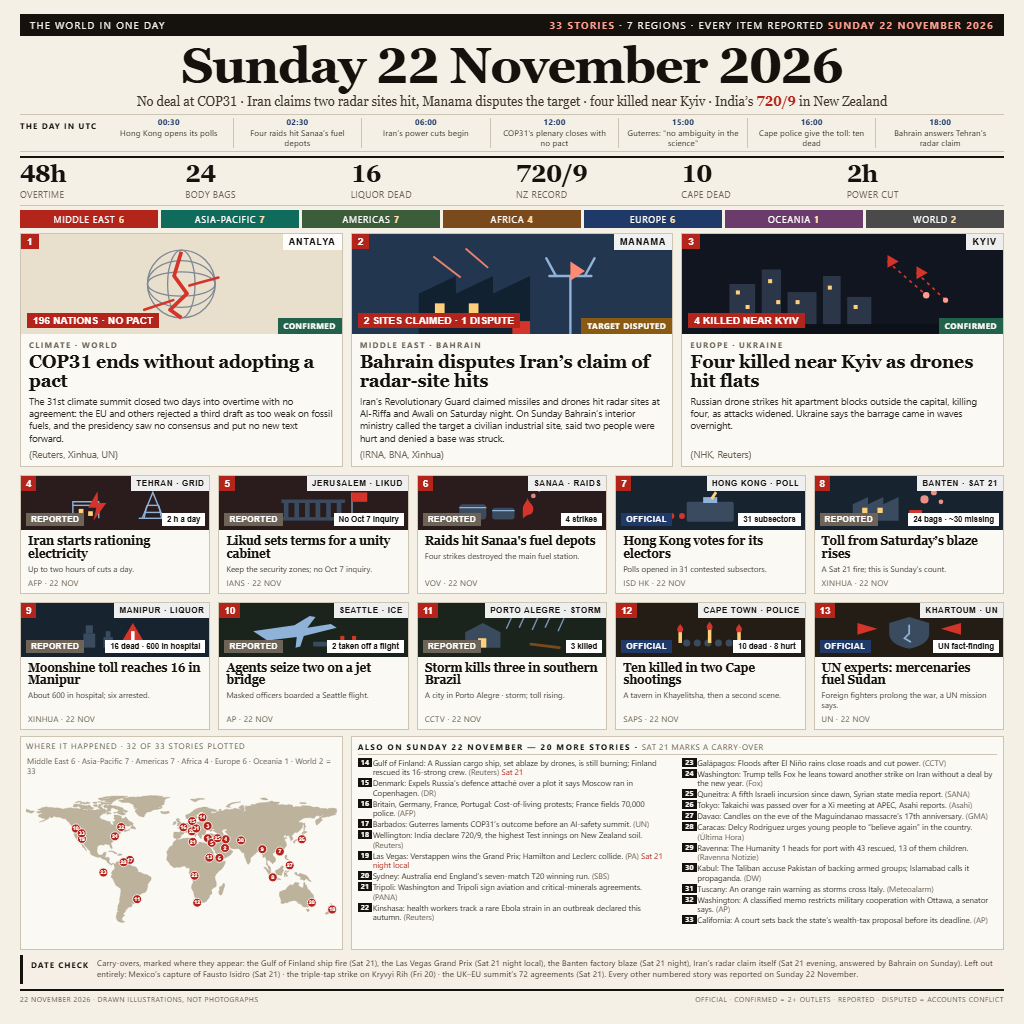
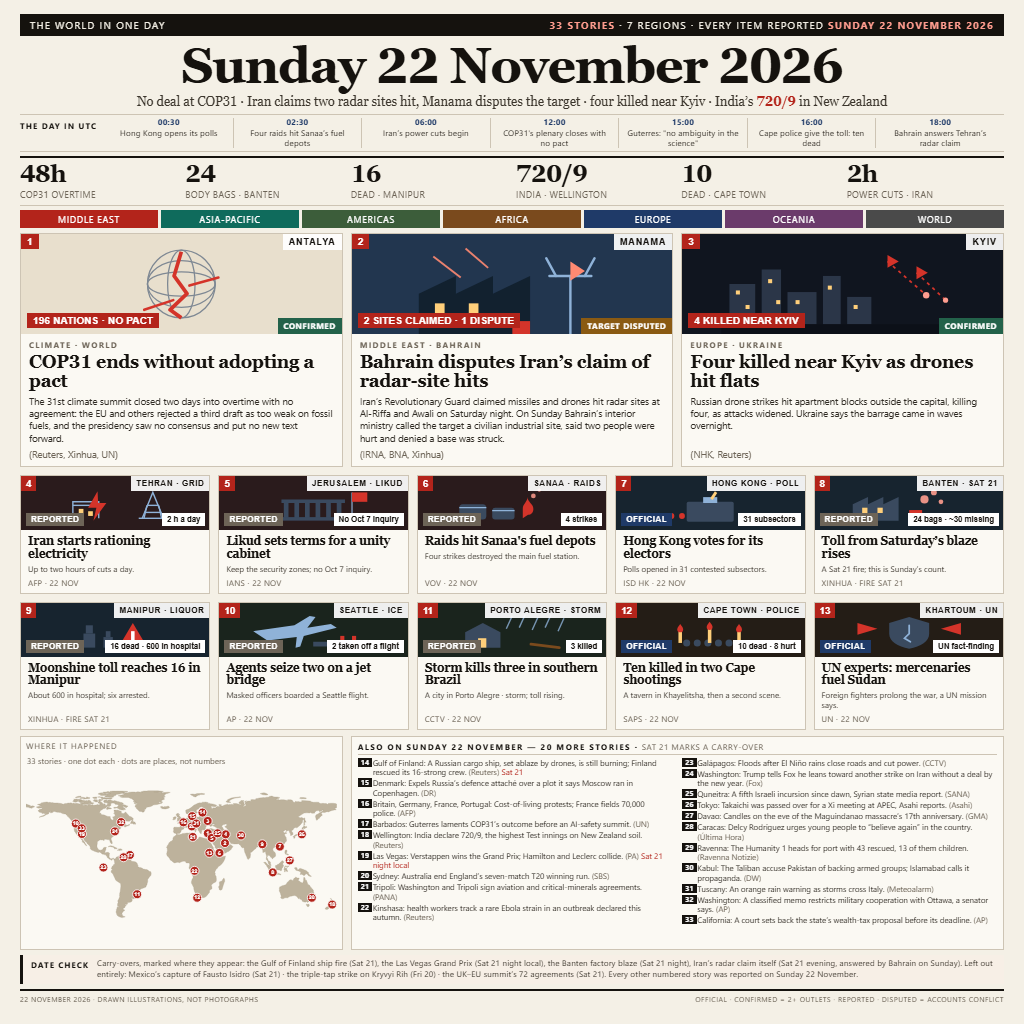
v11: stop claiming counts the map cannot match; KPI labels name their place; map dots are dots

diff --git a/image/frontpage.html b/image/frontpage.html
@@ -147,22 +147,22 @@
   </div>
 
   <div class="stats">
-    <div class="stat"><b>48h</b><span>overtime</span></div>
-    <div class="stat"><b>24</b><span>body bags</span></div>
-    <div class="stat"><b>16</b><span>liquor dead</span></div>
-    <div class="stat"><b>720/9</b><span>NZ record</span></div>
-    <div class="stat"><b>10</b><span>Cape dead</span></div>
-    <div class="stat"><b>2h</b><span>power cut</span></div>
+    <div class="stat"><b>48h</b><span>COP31 overtime</span></div>
+    <div class="stat"><b>24</b><span>body bags · Banten</span></div>
+    <div class="stat"><b>16</b><span>dead · Manipur</span></div>
+    <div class="stat"><b>720/9</b><span>India · Wellington</span></div>
+    <div class="stat"><b>10</b><span>dead · Cape Town</span></div>
+    <div class="stat"><b>2h</b><span>power cuts · Iran</span></div>
   </div>
 
   <div class="regions">
-    <div class="r-me">Middle East <span>6</span></div>
-    <div class="r-ap">Asia-Pacific <span>7</span></div>
-    <div class="r-am">Americas <span>7</span></div>
-    <div class="r-af">Africa <span>4</span></div>
-    <div class="r-eu">Europe <span>6</span></div>
-    <div class="r-oc">Oceania <span>1</span></div>
-    <div class="r-wo">World <span>2</span></div>
+    <div class="r-me">Middle East</div>
+    <div class="r-ap">Asia-Pacific</div>
+    <div class="r-am">Americas</div>
+    <div class="r-af">Africa</div>
+    <div class="r-eu">Europe</div>
+    <div class="r-oc">Oceania</div>
+    <div class="r-wo">World</div>
   </div>
 
   <div class="heroes">
@@ -276,14 +276,14 @@
         <span class="n">8</span><span class="rg">Banten · Sat 21</span><span class="st reported">Reported</span><span class="fp">24 bags · ~30 missing</span></div>
       <h3>Toll from Saturday’s blaze rises</h3>
       <p class="line">A Sat 21 fire; this is Sunday’s count.</p>
-      <div class="src">Xinhua · 22 Nov</div>
+      <div class="src">Xinhua · fire Sat 21</div>
     </div>
     <div class="tile ap">
       <div class="scene" style="background:#17242f"><svg viewBox="0 0 300 64" preserveAspectRatio="xMidYMid meet"><g fill="#3a4a5f"><path d="M96 62 V38 h20 v24z"/><rect x="100" y="24" width="12" height="14"/><path d="M130 62 V44 h16 v18z"/><rect x="134" y="34" width="8" height="10"/></g><g fill="#d4342a"><path d="M180 20 l26 44 h-52z"/></g><rect x="177" y="34" width="6" height="16" fill="#fff"/><rect x="177" y="54" width="6" height="6" fill="#fff"/></svg>
         <span class="n">9</span><span class="rg">Manipur · liquor</span><span class="st reported">Reported</span><span class="fp">16 dead · 600 in hospital</span></div>
       <h3>Moonshine toll reaches 16 in Manipur</h3>
       <p class="line">About 600 in hospital; six arrested.</p>
-      <div class="src">Xinhua · 22 Nov</div>
+      <div class="src">Xinhua · fire Sat 21</div>
     </div>
     <div class="tile am">
       <div class="scene" style="background:#1a241d"><svg viewBox="0 0 300 64" preserveAspectRatio="xMidYMid meet"><path d="M48 34 l70 -10 l26 -16 l10 2 l-14 18 l40 -6 l10 6 l-56 14 l-6 18 l-8 2 l2 -18 l-50 6z" fill="#8fb2d8"/><path d="M150 52 h96 v8 h-96z" fill="#3a4a5f"/><g fill="#d4342a"><rect x="196" y="42" width="7" height="10"/><rect x="216" y="42" width="7" height="10"/></g></svg>
@@ -317,8 +317,8 @@
 
   <div class="bottom">
     <div class="mapbox">
-      <div class="h">Where it happened · 32 of 33 stories plotted</div>
-      <div class="legend">Middle East 6 · Asia-Pacific 7 · Americas 7 · Africa 4 · Europe 6 · Oceania 1 · World 2 = 33</div>
+      <div class="h">Where it happened</div>
+      <div class="legend">33 stories · one dot each · dots are places, not numbers</div>
       <svg viewBox="0 0 360 150" preserveAspectRatio="xMidYMid meet">
         <rect width="360" height="150" fill="#fbf9f3"/>
         <path d="M112.3 145.6L113.6 146.2L115.0 146.5L113.6 147.1L112.7 147.1L111.9 147.5L110.8 147.4L109.0 146.9L107.7 146.3L106.7 145.7L105.3 144.5L106.2 144.8L107.6 145.5L108.9 145.9L109.7 144.6L110.7 144.2L111.8 144.8L112.3 145.6ZM325.4 131.8L326.4 132.2L327.7 131.8L328.4 133.2L327.9 134.4L326.9 134.8L326.0 134.7L325.4 133.8L324.7 132.2ZM353.0 132.0L354.0 132.0L354.2 132.9L353.2 134.1L353.1 135.1L351.5 135.5L350.6 137.2L349.8 137.7L348.4 138.0L346.7 137.6L347.0 136.4L348.3 135.3L349.7 134.7L350.5 134.2L351.1 133.6L351.6 132.9L352.1 132.0L352.8 131.5ZM354.6 126.9L355.3 128.0L356.8 128.7L358.0 128.4L358.3 129.5L357.2 130.1L356.9 131.1L356.0 132.3L355.2 132.8L355.2 131.5L353.8 130.5L354.6 129.7L354.7 128.9L354.3 127.5L353.1 126.0L352.6 125.2L353.6 125.7L354.3 126.0L354.6 126.9ZM230.1 103.1L230.2 104.3L230.4 105.3L229.9 106.1L229.4 107.7L229.0 108.9L228.5 110.4L227.9 112.4L227.5 113.9L227.1 115.1L226.3 115.3L225.4 115.8L224.0 115.1L223.7 113.6L223.3 112.8L223.4 111.3L224.4 109.9L224.2 108.8L224.0 107.1L224.4 105.9L225.5 105.6L226.3 105.4L226.9 104.8L227.7 104.1L227.9 103.2L228.8 102.6L229.2 101.5L229.8 102.4ZM323.6 103.3L323.9 104.1L324.9 104.1L325.3 105.0L325.5 105.9L326.2 107.5L326.4 108.8L327.5 109.3L328.2 109.8L328.8 110.3L329.3 111.2L329.7 112.3L330.5 112.6L330.9 113.5L331.6 114.2L332.9 115.4L333.1 116.3L333.1 117.5L333.6 118.4L333.5 119.4L333.1 120.8L332.9 122.2L332.5 123.1L331.7 123.6L331.3 124.5L330.7 125.9L330.1 127.2L330.0 128.3L328.3 128.7L327.4 129.1L326.3 130.0L325.5 129.5L325.0 128.8L323.6 129.7L322.7 129.4L321.6 129.2L320.6 128.9L320.0 128.2L319.8 127.4L319.1 126.5L318.1 126.4L318.2 125.1L317.7 125.8L316.8 126.0L317.5 124.8L317.8 123.5L317.0 124.4L316.0 125.6L315.2 125.2L314.6 123.8L313.0 122.5L311.3 122.0L309.5 122.1L308.2 122.5L307.1 122.8L306.1 122.8L305.1 123.3L304.2 123.5L303.7 124.5L302.8 124.6L301.3 124.5L299.9 124.6L299.3 125.2L298.5 125.4L297.3 125.7L295.6 125.1L295.0 124.3L295.7 123.5L295.7 122.1L295.2 121.1L295.0 119.9L294.6 118.9L294.0 117.6L293.5 116.8L293.4 115.8L294.2 116.5L293.7 115.1L293.5 113.9L293.8 113.1L294.1 111.7L294.2 112.5L294.6 111.8L295.5 111.4L296.7 110.6L298.2 110.3L299.0 109.9L299.8 109.8L300.9 109.5L301.7 108.5L302.3 107.5L303.0 106.1L303.4 107.0L303.8 105.8L304.4 105.2L305.2 104.2L306.1 103.9L307.1 103.3L307.8 103.8L308.4 104.4L309.6 104.5L309.9 103.1L310.6 102.0L311.7 101.7L312.6 101.5L311.8 100.6L313.0 100.7L314.4 101.5L315.3 101.7L316.3 101.5L316.7 102.3L316.0 102.8L315.8 103.8L315.5 104.6L316.3 105.2L317.1 105.5L318.3 106.5L319.1 106.8L320.2 107.4L321.1 106.5L321.4 105.5L321.7 104.6L321.6 103.8L321.7 102.4L321.9 101.3L322.1 100.4L322.9 101.2L323.5 102.3L323.6 103.3ZM288.6 95.9L290.5 96.0L292.6 96.1L294.5 96.9L295.7 97.6L294.6 98.0L293.5 97.6L292.6 97.6L291.5 97.5L290.6 97.3L289.4 96.9L288.3 96.9L286.5 96.5L285.4 96.0L286.1 95.0L287.3 95.0L288.1 95.4ZM314.1 89.9L314.4 91.7L315.5 92.3L316.3 91.2L317.4 90.5L318.3 90.5L319.2 90.9L319.9 91.3L321.0 91.5L322.7 92.2L324.6 92.8L325.3 93.4L326.0 94.5L327.6 95.2L327.0 95.8L328.1 97.2L328.7 98.3L330.0 99.0L330.8 99.6L330.0 100.0L328.9 99.6L327.9 99.4L327.1 98.8L326.6 98.2L326.0 97.3L324.7 96.8L323.9 97.1L323.4 98.2L322.6 98.6L321.0 98.4L320.1 97.5L319.1 97.3L317.6 97.6L318.0 96.8L318.4 95.3L317.9 94.4L316.0 93.5L315.2 93.4L313.7 92.5L313.0 93.1L312.8 92.2L312.0 91.7L313.1 91.3L312.2 91.1L310.9 90.2L311.9 89.5L314.0 89.6ZM305.2 87.2L304.4 88.3L302.7 88.3L301.1 88.3L300.2 88.5L300.0 89.3L300.9 90.2L303.3 89.4L302.4 90.3L301.5 90.7L302.5 92.1L303.2 93.7L302.6 94.7L302.7 93.4L301.7 93.9L300.9 92.5L301.0 91.5L300.4 93.1L300.4 94.6L299.4 94.4L299.7 93.4L299.5 92.4L298.8 91.7L299.2 91.0L299.3 90.2L299.8 88.6L300.9 87.3L301.7 87.7L302.9 87.8L304.1 87.8L305.1 87.0ZM285.8 94.9L284.7 94.9L283.9 94.1L282.6 93.2L281.4 91.7L280.9 90.9L280.1 89.4L279.3 88.5L279.0 87.6L278.6 86.8L277.7 86.1L277.2 85.2L276.4 84.6L275.4 83.5L277.5 83.2L278.4 84.2L279.1 84.9L280.6 86.5L281.7 86.5L282.5 87.3L283.1 88.1L283.8 88.6L283.4 89.5L284.4 89.9L284.9 91.2L286.1 92.0L285.9 93.3L285.8 94.9ZM297.9 86.8L299.0 87.8L297.8 87.9L297.5 89.6L296.6 90.3L296.5 91.4L296.1 93.0L294.9 93.1L293.8 92.4L292.1 92.4L291.0 92.0L290.2 91.8L290.1 90.4L289.1 89.2L289.0 88.3L289.1 87.3L289.7 86.6L290.4 87.0L291.4 85.9L293.0 85.5L293.7 84.6L294.2 84.0L295.5 83.0L296.2 82.2L296.7 81.4L297.6 81.9L298.3 82.7L299.2 83.0L298.4 83.5L297.9 84.4L297.3 85.3L298.0 86.3ZM306.4 79.8L306.5 81.1L306.2 82.1L305.8 81.0L305.7 82.3L304.2 82.2L303.9 81.5L303.6 80.5L302.8 80.9L302.1 81.4L302.3 80.2L303.5 79.5L304.6 79.7L305.5 79.2L305.4 78.4L306.2 78.9L306.4 79.8ZM301.3 69.2L302.2 69.2L302.5 70.7L302.3 71.6L301.5 72.8L301.7 73.6L302.7 73.6L304.0 74.2L304.2 75.0L303.3 75.0L302.0 74.2L301.1 74.3L300.7 73.7L300.1 72.9L299.9 71.4L300.4 70.1L300.7 69.2ZM107.4 67.7L108.3 67.9L109.2 67.7L110.0 68.0L110.8 68.3L111.7 69.1L110.8 69.3L109.9 69.5L109.0 69.4L108.6 70.1L107.6 69.5L106.5 69.5L105.5 69.4L106.6 69.2L107.7 69.0L107.2 68.2ZM100.3 64.7L101.7 65.0L102.9 65.9L103.8 66.3L105.1 66.9L105.8 67.3L105.0 67.7L103.7 67.7L102.2 67.8L102.9 67.2L101.9 66.8L101.3 65.9L99.8 65.7L98.2 65.3L97.2 64.8L96.5 65.3L95.5 65.7L95.8 64.9L96.7 64.5L97.7 64.2L98.6 64.3L100.3 64.7ZM321.0 49.5L320.6 50.3L320.3 51.6L319.0 52.1L317.2 52.2L315.8 53.4L315.1 52.2L313.3 52.4L312.2 52.9L311.0 52.9L312.0 53.7L311.3 55.5L310.2 55.5L310.4 54.6L309.4 53.6L310.4 53.2L310.9 52.6L311.9 52.0L312.6 51.3L314.6 51.0L315.7 51.2L316.7 49.3L317.4 49.8L318.9 48.8L320.1 47.1L319.9 45.9L321.4 45.0L321.9 46.5L321.9 47.3L321.0 48.4L321.0 49.5ZM323.9 42.1L325.3 41.8L325.5 43.0L324.1 43.3L323.2 44.4L321.6 43.6L321.1 44.8L320.0 44.8L319.8 43.8L320.3 43.0L321.4 42.9L321.7 41.4L322.0 40.6L323.1 41.7L323.9 42.1ZM123.9 35.2L123.2 36.1L124.5 36.0L125.1 36.6L126.5 36.7L126.2 37.5L127.0 37.9L126.9 39.4L125.8 39.3L126.0 38.4L124.6 39.2L123.7 38.4L122.7 38.5L120.7 38.4L121.2 37.8L121.6 36.8L122.6 35.2L123.3 34.6L124.1 34.2L123.9 35.2ZM323.6 35.1L324.7 37.0L323.2 36.6L322.6 38.2L323.5 39.3L322.1 40.2L321.9 39.3L322.0 38.3L321.9 37.1L322.1 36.3L322.2 34.9L321.6 33.9L321.7 32.4L322.6 31.9L323.3 33.0L323.2 34.1L323.6 35.1ZM173.2 33.5L171.4 34.2L170.0 34.0L170.8 32.9L170.3 31.8L171.7 31.0L172.4 30.5L173.3 30.5L174.3 31.1L173.8 31.8L173.2 33.5ZM177.0 26.8L175.9 27.9L176.9 27.8L178.0 27.8L177.8 28.7L176.9 29.6L177.9 29.7L178.9 31.0L180.2 32.4L181.7 33.0L181.1 34.0L180.6 35.1L179.2 35.1L177.5 35.4L176.4 35.7L175.5 35.6L174.8 36.0L175.7 34.6L176.6 34.4L175.0 34.2L175.8 33.5L175.4 32.2L176.9 32.3L176.4 31.0L175.2 30.9L175.0 29.8L173.9 28.7L174.2 27.7L175.0 26.8L175.8 26.9L177.0 26.8ZM94.8 19.4L96.1 20.0L97.2 20.3L98.4 20.6L99.2 21.1L97.5 21.5L95.9 21.6L94.5 22.1L92.8 21.6L93.6 21.1L93.8 20.3L94.1 19.3ZM165.5 18.5L166.4 19.9L165.1 20.7L162.2 21.5L161.3 21.7L160.0 21.5L157.2 21.2L158.2 20.7L156.0 20.2L157.8 20.0L155.7 19.4L156.3 18.7L157.9 18.6L159.4 19.3L160.9 18.7L162.2 19.0L163.8 18.5L165.5 18.5ZM5.0 18.4L8.1 18.0L10.1 19.0L9.1 19.5L7.5 19.6L7.4 20.6L6.1 20.8L5.3 20.5L4.0 20.2L2.8 19.5L1.6 19.7L1.3 18.9L0.1 19.1L0.0 20.1L0.0 15.9L2.4 16.7L5.1 17.7ZM89.5 15.3L89.4 16.4L90.8 15.6L92.0 16.3L91.7 17.0L92.6 17.7L93.7 17.0L94.4 16.1L94.5 14.9L95.9 15.0L97.4 15.1L98.7 15.7L98.0 16.8L98.7 17.3L96.7 18.6L95.3 18.7L94.2 18.4L93.0 19.8L91.5 21.0L90.1 21.1L89.3 21.5L88.1 22.4L86.8 23.2L85.8 24.4L85.4 25.2L85.3 26.5L86.8 26.6L87.2 27.6L87.7 28.4L89.1 28.2L91.0 28.7L92.0 29.1L92.7 29.6L93.9 29.9L95.0 30.3L96.6 30.4L97.7 30.5L97.6 31.4L97.9 32.5L98.6 33.6L100.1 34.6L100.9 34.3L101.4 33.2L100.9 31.5L100.2 31.0L101.8 30.5L102.9 29.7L103.5 29.0L102.7 27.4L101.5 26.6L102.7 25.5L102.2 24.6L101.9 22.9L104.3 22.9L105.3 23.0L106.2 22.8L107.1 23.1L108.3 23.7L110.4 24.2L110.4 25.1L110.7 26.5L111.6 26.6L112.4 27.2L113.8 26.7L114.8 25.5L115.4 25.0L116.2 25.9L117.5 27.3L118.6 28.6L119.5 29.8L120.4 30.4L122.0 30.7L123.1 31.9L124.2 32.5L124.3 33.6L123.6 34.0L122.9 34.4L121.2 34.8L120.0 35.7L118.3 35.8L116.1 35.6L114.6 35.6L113.6 35.7L112.8 36.4L111.5 36.9L110.0 38.3L108.9 39.3L109.7 39.1L111.3 37.7L113.4 36.8L114.9 36.7L115.8 37.2L114.9 38.0L115.2 39.1L115.5 39.9L116.8 40.4L118.5 40.3L119.5 39.1L120.2 40.2L119.0 40.9L116.7 41.5L115.8 42.0L114.6 42.7L113.8 41.8L115.6 40.9L114.0 40.9L112.9 41.1L112.0 41.9L110.9 42.3L109.9 42.6L109.3 43.3L109.5 44.6L108.1 45.1L107.1 45.2L106.3 45.5L107.8 45.3L106.7 45.8L105.7 46.0L105.8 46.8L105.1 47.6L104.5 47.0L104.9 47.8L104.6 48.6L104.1 49.4L103.8 48.3L103.7 47.4L103.7 48.5L103.7 49.7L104.3 51.2L103.6 52.0L102.6 52.3L101.9 52.9L100.9 53.4L99.7 54.4L98.7 55.5L98.7 57.0L99.0 57.9L99.5 58.7L99.9 60.3L99.9 61.5L99.3 62.2L98.7 61.6L97.8 60.5L97.3 59.7L97.3 58.6L96.3 57.1L94.9 57.4L94.2 56.9L92.5 56.8L91.6 56.6L90.4 56.9L90.8 57.8L89.8 58.0L88.4 57.4L87.5 57.5L86.2 57.3L85.3 57.6L84.4 58.4L83.4 58.8L82.6 59.8L82.7 61.0L82.5 62.3L82.2 64.5L82.3 65.6L82.8 66.9L83.5 67.7L84.1 68.8L85.2 69.1L86.5 69.3L88.0 69.0L89.2 68.4L89.5 66.9L90.4 66.3L91.5 66.0L92.3 66.1L93.2 66.2L92.6 67.3L92.6 68.2L92.2 69.4L91.8 70.3L91.6 71.3L91.1 72.0L91.9 72.2L93.1 72.1L94.0 71.8L94.8 71.9L95.6 72.0L96.6 72.6L96.8 73.6L96.5 74.4L96.5 75.6L96.3 76.4L96.6 77.8L97.5 78.6L98.2 79.3L99.1 79.4L100.1 78.9L101.0 78.6L101.9 79.0L102.6 79.6L103.9 78.9L104.5 77.5L105.7 77.0L106.6 76.9L107.4 76.3L108.2 75.6L108.7 76.3L108.4 77.1L107.9 78.3L108.3 79.1L109.0 78.3L108.6 77.1L109.8 76.7L110.1 75.9L110.4 76.6L111.8 77.2L112.7 77.6L113.8 77.5L115.1 78.1L115.7 77.5L116.9 77.4L118.1 77.4L117.3 77.7L118.4 78.3L119.2 78.8L119.3 79.7L120.2 79.9L121.5 81.0L122.5 82.1L124.1 82.6L125.0 82.4L126.0 82.7L127.1 83.0L128.2 83.9L128.9 84.9L129.5 86.7L130.1 87.6L129.3 88.5L131.4 89.0L131.4 90.0L132.2 89.3L133.4 89.7L135.1 90.4L135.4 91.6L136.6 91.2L138.5 91.8L140.0 91.8L141.5 92.6L142.8 93.8L143.5 94.1L144.4 94.2L145.1 95.9L144.9 98.2L144.4 98.9L143.0 100.4L142.3 101.6L141.6 102.5L141.0 103.3L141.1 105.3L140.8 106.9L140.4 108.0L140.2 109.4L139.2 110.8L139.1 111.9L138.2 112.4L136.9 113.0L135.4 113.4L134.6 113.9L133.5 114.2L132.4 115.0L131.5 116.1L131.4 116.9L131.3 118.5L130.4 119.6L129.3 121.5L128.4 122.3L127.7 122.8L127.3 123.8L126.6 124.4L125.1 125.7L123.8 125.6L122.9 125.1L121.6 124.6L122.8 126.0L123.3 127.2L122.3 129.1L120.8 129.6L118.8 129.9L117.7 129.7L117.7 131.2L117.3 132.1L116.2 132.2L115.3 131.8L115.0 133.2L116.2 133.1L115.6 134.0L114.8 134.7L114.7 135.7L113.5 136.3L112.7 136.9L112.4 137.6L113.4 138.4L114.4 138.6L114.0 139.6L112.8 140.2L112.2 141.4L111.3 141.8L111.2 143.4L111.8 144.0L110.5 144.0L109.2 144.6L109.0 145.6L107.4 145.3L106.3 144.5L105.1 143.9L105.0 142.7L104.5 141.9L104.4 140.1L104.8 139.1L105.9 138.3L104.4 138.0L105.3 137.1L105.6 135.3L106.8 135.7L107.3 133.5L106.3 134.5L106.0 132.9L106.3 130.9L106.8 130.2L106.5 129.2L106.4 128.0L107.4 126.2L108.1 124.6L108.6 123.0L108.3 121.4L108.6 120.5L108.5 119.2L109.1 117.9L109.3 115.9L109.6 113.7L109.9 111.3L109.8 109.6L109.6 108.1L108.6 107.5L106.6 106.0L104.8 104.9L104.0 104.2L103.6 103.3L102.9 101.6L101.9 99.7L101.0 97.6L100.2 96.3L99.5 95.6L98.8 95.2L98.6 93.7L98.9 93.0L99.7 92.3L100.2 91.5L99.0 91.1L99.1 89.8L99.6 89.0L99.9 87.9L101.1 87.3L101.3 86.3L102.1 85.9L102.9 84.7L102.7 83.8L102.5 82.8L102.5 81.7L101.8 80.8L101.8 79.9L100.9 79.2L99.8 79.9L100.0 80.8L99.1 81.1L98.5 80.6L97.6 80.0L96.5 79.8L96.1 78.9L95.4 78.6L94.3 78.2L94.3 77.4L93.5 76.3L92.8 75.6L92.5 74.7L91.5 74.8L90.7 74.5L89.9 74.2L88.8 74.0L87.8 73.4L86.6 72.2L85.3 71.6L83.9 72.1L82.7 71.9L81.1 71.2L79.2 70.6L78.3 70.1L77.5 69.7L76.5 69.4L75.0 68.3L74.5 67.7L74.5 66.7L74.4 65.6L74.0 64.7L73.1 63.6L72.1 62.8L71.6 62.1L70.7 61.7L70.7 60.8L69.6 60.0L68.8 59.2L68.2 58.7L67.7 57.8L67.2 57.0L66.8 56.2L66.1 55.4L65.2 55.1L65.2 56.1L65.7 57.3L66.4 58.0L66.9 58.7L67.5 59.7L68.4 60.6L68.7 61.5L69.3 62.5L70.2 63.6L70.1 64.6L69.1 63.4L68.3 62.9L67.9 61.8L67.2 60.9L66.5 60.5L65.5 60.1L64.9 59.4L65.8 59.0L65.1 57.8L64.1 56.9L63.3 55.3L62.9 54.4L62.1 53.2L60.9 52.7L59.6 52.3L59.3 51.6L58.3 50.5L57.5 49.1L56.3 47.6L56.1 46.7L55.8 45.3L55.8 44.4L55.5 43.6L55.9 42.6L56.1 40.6L55.9 39.2L55.6 38.3L56.9 38.0L57.4 39.0L57.5 37.8L57.2 37.0L55.1 35.9L54.4 35.5L52.6 35.0L52.0 34.1L50.9 33.0L50.7 32.2L49.5 31.4L48.9 30.4L48.0 30.1L47.8 29.2L46.5 28.3L45.9 27.3L45.0 27.3L43.4 27.2L42.2 26.9L40.1 25.8L39.2 25.6L37.4 25.3L36.0 25.4L34.1 24.9L32.9 24.4L31.8 24.6L31.4 25.4L30.3 25.7L29.4 26.0L28.3 26.2L28.6 24.6L29.7 24.3L28.1 24.6L27.4 25.3L26.0 26.0L26.7 26.6L25.8 27.3L24.7 27.8L23.7 28.1L21.9 29.1L20.4 30.0L18.8 30.2L17.8 30.6L16.9 31.0L15.2 31.3L16.2 30.6L17.1 30.3L18.2 29.7L19.4 29.6L21.3 28.5L22.3 27.9L22.4 27.1L23.0 26.5L21.8 26.8L20.9 27.0L20.3 26.5L18.6 26.8L17.9 26.1L17.5 25.4L16.2 25.6L15.3 25.1L14.6 24.2L13.9 23.8L15.1 22.6L16.2 22.0L17.7 21.6L19.2 21.4L18.5 20.7L19.2 20.3L17.5 20.5L16.5 20.5L15.0 20.7L13.6 20.4L11.9 19.4L13.3 18.9L15.5 18.4L16.3 18.4L18.3 18.9L17.5 18.2L16.3 17.8L15.6 17.3L14.6 16.9L13.2 16.5L15.6 15.9L16.8 15.5L18.1 14.4L19.1 14.3L21.0 13.8L21.9 13.9L23.4 13.4L24.9 13.6L25.7 14.1L27.8 13.9L29.3 14.3L30.3 14.2L32.4 14.6L34.3 14.7L36.4 14.6L37.9 14.9L39.0 15.1L40.9 15.3L42.5 15.9L43.5 16.0L44.4 15.5L45.6 15.2L47.1 15.3L48.6 14.8L50.2 14.6L50.9 15.0L51.9 14.3L54.2 15.3L55.6 14.6L55.7 15.4L56.9 15.2L58.5 15.0L60.1 15.4L62.4 15.8L63.8 16.0L64.8 15.9L66.1 16.5L64.7 17.0L66.5 17.2L69.2 17.1L70.1 16.9L71.1 17.6L72.2 17.0L71.2 16.6L73.0 16.2L73.8 16.1L74.7 16.3L75.7 16.9L76.8 16.8L78.5 17.3L80.1 17.1L81.6 17.1L82.3 16.3L83.9 16.6L83.9 17.6L84.5 16.8L85.3 16.8L85.8 15.8L84.7 15.1L83.5 14.7L83.6 13.5L84.8 12.8L86.1 12.9L87.1 13.4L88.5 14.6L87.6 15.1L89.5 15.3ZM65.8 11.5L67.6 11.7L68.9 12.2L70.1 11.7L71.0 12.0L71.8 13.0L71.6 11.5L72.5 11.4L73.5 11.5L74.6 12.0L75.2 13.0L75.5 13.7L77.2 14.3L79.0 14.8L77.3 15.3L77.6 16.1L75.8 15.9L74.0 15.7L72.9 15.7L71.0 16.1L68.0 16.3L66.7 16.3L64.8 15.5L63.9 15.7L62.7 14.8L64.9 14.5L66.3 14.6L67.6 14.4L65.7 14.2L63.5 14.2L62.1 14.2L63.9 13.4L62.3 13.4L60.6 13.1L61.4 12.4L62.1 11.9L64.8 11.3L65.8 11.5ZM93.4 11.5L94.2 12.1L95.1 11.3L97.7 10.8L99.4 11.9L101.2 12.3L102.2 11.9L104.4 12.4L105.8 12.9L107.8 13.1L108.8 13.8L111.2 14.2L112.1 14.7L113.0 15.6L111.2 16.1L113.6 16.8L115.1 17.1L116.6 18.0L118.1 18.1L117.8 18.8L116.1 20.1L114.9 19.6L113.3 18.6L112.0 18.7L112.9 20.0L114.3 20.4L115.3 21.8L115.0 22.5L113.7 22.2L111.2 21.4L112.6 22.3L113.7 22.9L111.1 22.9L109.0 22.3L107.8 21.8L106.6 20.9L105.2 20.4L102.3 20.9L101.4 20.5L102.1 19.7L104.0 19.7L106.0 19.6L106.1 18.7L107.3 17.7L106.7 16.8L105.2 16.3L103.1 16.0L102.7 15.0L101.8 15.0L101.0 14.6L98.7 15.1L95.1 14.8L92.9 14.5L91.3 14.4L90.5 14.0L91.5 13.5L90.1 13.5L89.8 12.4L90.6 11.5L91.6 11.1L94.2 10.8L93.4 11.5ZM79.6 10.7L80.8 11.0L82.6 10.8L81.9 11.6L83.5 12.1L83.3 13.0L81.6 13.4L80.7 13.4L80.0 13.0L77.5 12.1L79.6 11.9L78.5 11.2L79.6 10.7ZM86.8 11.9L85.7 12.7L84.6 12.6L84.0 11.7L84.5 10.7L85.5 10.4L87.6 10.5L89.5 10.7L88.0 11.7L86.8 11.9ZM59.5 13.3L56.9 13.8L54.1 12.8L55.2 11.6L56.1 10.9L55.1 10.3L58.5 10.1L59.9 10.3L62.4 10.4L63.4 10.7L64.5 11.1L63.2 11.4L60.8 12.1L59.5 12.9ZM325.1 8.9L324.3 9.7L320.6 9.7L319.0 9.9L317.0 9.2L317.5 8.5L318.8 8.3L321.5 8.4L325.1 8.9ZM81.5 7.7L82.3 8.2L81.8 9.5L80.2 9.6L79.1 9.4L77.5 8.9L77.4 8.1L78.5 8.1L80.0 7.8L81.4 7.8ZM71.8 8.2L73.1 8.4L74.1 8.5L73.7 9.5L70.3 9.7L67.8 10.1L66.3 10.1L68.2 9.3L63.7 9.5L62.3 9.3L63.7 8.2L64.6 7.9L67.4 8.3L69.2 8.9L70.9 9.0L69.5 8.0L70.4 7.6L71.5 7.7ZM237.5 14.0L233.7 14.0L231.6 13.2L232.5 12.4L234.4 11.0L233.5 10.8L235.9 9.9L237.9 8.9L241.2 8.2L244.5 8.0L246.2 7.6L248.2 7.5L248.9 7.9L244.6 8.7L241.6 9.2L238.5 10.2L237.0 11.3L235.4 12.3L235.6 13.2L237.5 14.0ZM85.3 7.3L86.4 7.6L88.4 7.6L89.3 8.0L90.2 8.6L92.2 8.9L93.6 9.0L95.2 8.8L97.2 8.7L98.9 8.8L99.9 9.2L99.5 9.9L98.1 10.1L96.8 10.0L93.9 10.1L91.8 10.1L90.2 10.0L87.6 9.7L87.1 8.6L86.1 8.1L84.0 8.0L82.9 7.7L85.3 7.3ZM63.8 6.7L63.7 7.5L62.9 7.9L62.0 7.9L60.1 8.4L58.5 8.6L57.1 8.3L58.8 7.5L60.9 6.9L62.4 6.9L63.8 6.7ZM287.0 7.4L288.2 7.7L291.1 7.7L293.3 8.2L294.1 8.6L292.8 9.5L290.2 10.1L289.4 10.4L290.6 10.5L292.1 10.8L293.0 10.6L293.5 11.3L295.6 10.8L298.8 11.0L303.2 11.7L303.3 10.8L305.4 11.0L307.0 11.0L308.6 11.6L309.1 12.3L309.7 13.5L311.3 14.0L312.3 12.8L313.9 13.3L315.6 13.0L317.5 13.4L319.9 13.2L319.1 12.2L320.5 11.8L329.5 12.5L330.4 13.1L333.0 13.9L337.0 13.7L339.0 13.9L339.8 14.3L340.9 15.4L342.3 15.2L344.1 15.1L345.9 15.3L347.8 15.2L349.6 16.2L350.8 15.8L350.0 15.2L353.6 15.0L355.7 14.9L358.6 15.4L360.0 15.9L360.0 20.1L358.7 20.6L357.4 20.5L358.3 21.0L358.9 21.9L359.5 22.6L357.4 22.7L354.6 23.5L353.7 23.6L352.2 24.3L350.7 25.0L348.9 24.7L346.3 25.6L344.9 25.6L343.5 25.5L342.0 27.2L343.2 27.9L343.1 29.4L342.1 29.4L341.7 30.3L340.4 31.3L340.0 32.5L338.5 32.8L338.2 33.9L336.8 34.8L336.4 34.1L336.0 32.6L335.4 30.2L335.9 28.8L336.8 28.1L338.4 27.4L340.2 26.1L341.9 25.0L343.7 24.1L344.5 22.7L343.3 22.7L342.7 23.6L340.1 24.8L339.3 23.5L336.7 23.8L334.2 25.6L335.0 26.3L332.8 26.5L331.3 26.6L329.8 25.7L328.5 26.2L325.5 26.1L322.2 26.4L319.0 28.4L315.1 30.9L316.7 31.1L317.2 31.7L318.2 31.9L318.8 31.4L319.9 31.5L321.3 32.7L321.4 33.6L320.6 34.6L320.5 35.9L320.1 37.6L318.6 39.1L318.2 39.8L316.9 41.0L315.5 42.3L314.9 42.9L313.5 43.5L312.3 43.0L310.9 43.8L310.0 44.4L309.7 45.5L309.0 46.0L308.0 46.5L307.5 47.2L308.3 47.9L309.2 49.2L309.5 51.1L308.2 51.9L307.4 52.3L306.5 52.4L306.6 51.0L306.1 49.9L306.2 48.9L305.3 48.9L305.0 48.0L305.4 47.1L304.3 46.6L302.9 46.9L302.1 47.4L301.1 47.6L301.4 46.7L302.2 46.0L300.8 45.9L299.6 46.6L299.0 47.3L298.0 47.3L298.1 48.5L298.9 48.7L299.7 49.5L300.8 48.7L301.7 49.1L302.5 49.7L301.1 50.0L299.7 51.1L299.2 51.9L300.2 52.4L300.6 53.5L301.2 54.4L301.9 55.3L301.3 56.3L302.1 57.2L301.9 58.1L301.7 58.9L300.4 60.2L299.6 61.5L298.7 62.8L297.3 63.8L295.9 64.7L294.8 64.8L293.8 64.9L291.8 66.0L290.8 66.1L290.4 67.2L289.6 66.5L288.5 65.8L286.7 66.9L285.9 67.9L286.4 69.7L287.4 71.1L288.3 71.7L288.9 72.6L289.3 74.5L289.2 76.4L288.4 77.1L287.2 77.8L286.4 78.7L285.2 79.6L285.1 78.3L284.3 77.7L283.5 77.5L282.6 75.9L281.7 75.4L280.8 75.4L281.0 74.6L280.1 74.6L280.0 75.7L279.5 77.3L279.2 78.2L279.9 79.0L280.3 80.0L280.5 80.9L281.0 81.5L282.1 82.2L283.0 82.9L283.4 83.6L283.3 84.8L283.5 85.8L284.2 87.0L283.5 87.4L282.6 86.7L281.4 85.8L280.7 84.6L280.6 83.7L280.3 82.4L279.7 81.5L279.0 80.4L278.2 79.9L278.6 78.2L278.8 76.6L278.5 74.9L277.8 73.1L277.6 71.7L277.2 70.8L276.5 71.4L275.4 72.1L274.2 71.8L274.5 70.5L274.3 69.5L273.5 68.3L272.4 66.9L272.0 65.8L271.4 64.7L270.5 64.6L270.3 65.7L269.4 65.5L268.2 65.8L267.0 66.0L266.5 67.4L265.1 68.2L263.9 69.4L263.2 70.1L262.2 70.8L261.7 71.5L260.8 71.9L260.0 72.7L260.2 74.1L260.3 75.0L259.9 76.0L259.9 77.8L258.9 78.6L258.3 79.3L257.5 80.3L256.6 79.3L256.1 77.9L255.7 76.8L254.9 75.3L254.6 74.0L253.5 71.8L253.1 69.8L252.8 68.4L252.8 67.2L252.6 66.2L251.2 66.8L249.2 65.4L249.3 64.6L248.2 63.7L247.1 62.7L246.4 61.9L244.5 62.1L242.9 62.1L241.5 62.2L239.6 61.9L238.5 61.7L237.4 61.5L237.0 60.2L235.7 60.2L234.7 60.8L233.5 60.4L232.5 59.6L231.5 59.3L230.9 58.3L230.1 56.9L228.9 56.7L228.0 57.1L228.4 58.6L228.8 59.5L229.5 60.1L230.2 60.5L230.2 61.7L230.8 62.6L231.0 61.3L231.6 62.1L231.6 63.1L232.6 63.2L233.4 63.2L234.7 62.5L235.4 61.9L236.1 61.2L236.4 62.4L236.8 63.1L238.1 63.6L239.2 64.4L239.8 65.2L239.3 66.1L238.5 67.2L237.7 67.9L237.7 68.7L236.6 69.1L236.3 69.8L235.3 70.1L234.8 70.8L233.6 71.1L232.4 71.4L232.2 72.3L231.2 72.7L229.6 73.2L228.7 73.9L227.4 74.4L225.9 74.6L225.1 75.0L224.2 75.4L223.2 74.8L223.1 73.9L222.9 73.1L222.7 72.1L222.6 71.0L222.3 70.3L221.2 69.0L220.9 68.1L220.2 67.4L219.1 66.2L219.1 64.9L218.5 63.7L217.5 63.1L217.2 62.2L216.6 61.5L216.2 60.7L215.6 59.8L215.1 59.1L214.8 58.1L214.2 59.3L213.1 58.7L212.4 57.2L212.7 58.4L213.3 59.5L214.1 61.1L214.8 62.3L215.7 63.5L215.5 64.3L216.7 65.3L217.2 66.5L217.1 67.8L217.5 69.1L218.4 69.7L219.0 70.9L219.3 71.9L221.2 73.4L221.7 74.0L222.3 74.6L223.1 75.3L222.7 76.3L223.5 76.8L224.1 77.7L225.6 77.4L226.6 77.3L227.5 77.0L228.4 76.7L229.3 76.7L230.3 76.4L231.1 76.0L231.0 76.9L230.8 77.9L230.6 79.0L230.1 80.2L229.5 81.5L228.6 83.1L227.7 84.3L226.6 85.7L225.6 86.6L224.1 87.6L223.1 88.4L222.0 89.7L221.6 90.5L220.9 90.9L220.3 91.5L219.8 92.6L219.2 93.7L218.7 95.0L219.4 96.0L219.2 96.9L219.2 97.7L219.9 99.4L220.5 100.1L220.4 101.2L220.6 102.1L220.6 103.7L220.5 105.0L220.1 105.7L219.5 106.4L218.5 106.8L217.4 107.3L216.3 108.4L215.2 109.4L214.7 110.4L215.2 111.2L215.4 112.1L215.5 113.1L215.5 114.2L214.2 114.9L213.0 115.5L212.7 116.4L212.6 117.8L212.5 118.6L211.5 119.6L210.9 120.3L210.1 121.6L208.9 122.7L208.2 123.4L207.5 123.8L206.4 124.2L205.2 124.4L203.6 124.4L202.6 124.5L201.5 124.9L200.7 125.1L199.6 125.5L198.9 125.1L198.2 124.5L197.9 123.2L198.2 122.2L197.6 121.2L197.1 120.3L196.3 118.9L195.6 118.1L195.2 117.3L195.0 116.3L194.7 115.6L194.4 113.9L194.4 112.7L193.9 111.7L193.4 110.8L192.8 109.5L191.8 107.8L191.7 107.0L191.8 105.4L192.1 104.4L192.5 103.0L193.3 101.9L193.7 100.7L193.4 99.7L192.9 98.4L192.9 96.8L192.2 95.4L191.9 94.1L191.1 92.9L190.1 91.9L189.4 91.0L188.8 89.9L189.3 88.4L189.5 87.7L189.6 86.3L189.8 85.5L189.4 84.8L188.7 84.1L187.5 84.1L185.9 84.2L185.4 83.6L185.0 82.8L184.3 82.1L182.7 82.1L181.9 82.2L181.1 82.5L179.5 83.1L178.0 83.8L177.1 83.5L176.0 83.3L174.2 83.5L172.5 84.1L171.0 83.6L170.1 82.8L169.2 82.2L168.6 81.6L167.6 81.1L166.9 80.1L166.3 78.7L165.7 78.2L165.2 77.2L164.3 76.6L163.7 76.1L163.2 74.8L162.9 73.5L163.3 72.2L163.5 71.1L163.9 69.6L163.7 68.6L163.7 67.5L162.9 66.5L163.0 65.6L163.7 64.8L164.0 63.7L164.6 63.0L165.2 62.2L165.6 61.0L166.9 59.5L168.3 59.0L169.1 58.3L170.4 57.1L170.2 55.8L170.6 54.9L171.3 53.6L172.3 53.1L173.1 52.7L173.8 51.6L174.8 51.0L176.4 51.3L177.4 51.6L178.8 51.0L179.9 50.8L181.5 50.1L183.2 49.9L184.8 49.8L186.3 49.5L187.3 49.5L188.4 49.7L189.5 49.3L190.2 49.9L191.0 49.6L190.6 50.3L190.9 51.0L190.8 51.9L190.1 52.5L190.9 53.1L191.5 53.7L192.7 54.1L193.9 54.2L195.2 54.6L195.7 55.6L196.6 55.8L198.0 56.2L199.1 56.8L200.1 56.0L199.8 55.2L200.9 54.2L202.9 54.3L203.6 54.7L204.9 55.0L206.5 55.4L207.5 55.6L208.5 56.0L209.7 55.8L211.0 55.4L212.0 56.1L213.0 56.0L214.3 55.8L214.8 54.9L215.0 54.1L215.5 52.9L216.0 52.2L215.9 51.3L215.8 50.4L214.7 49.9L214.0 50.5L212.5 50.6L211.7 50.0L210.6 50.0L209.7 50.6L208.7 50.0L207.6 50.0L207.0 49.0L206.3 48.4L206.8 47.6L206.2 47.0L207.3 46.0L208.8 46.0L209.2 45.2L211.1 45.3L212.3 44.6L213.5 44.3L215.2 44.3L216.9 45.1L218.3 45.5L219.5 45.3L220.4 45.4L221.6 44.9L221.5 43.7L220.3 43.2L218.7 42.0L217.5 41.6L216.7 40.9L218.2 39.9L219.1 39.0L218.2 39.0L217.4 39.1L215.8 39.5L215.0 39.9L215.5 40.8L216.5 40.7L215.2 41.3L213.9 41.9L212.5 40.9L213.6 40.3L211.7 39.8L210.7 39.5L209.6 40.9L208.8 41.3L208.6 42.6L207.7 43.8L208.1 44.8L209.0 45.1L207.6 45.4L206.4 46.3L205.4 45.6L203.7 45.8L204.4 46.3L203.3 46.5L203.4 47.3L204.0 48.4L203.1 48.7L203.2 50.3L201.7 49.8L201.3 49.0L200.7 47.8L200.2 46.9L199.4 46.2L199.4 45.0L198.9 44.1L197.5 43.5L196.0 42.8L195.2 42.0L194.9 41.1L194.0 41.4L193.9 40.6L193.1 40.4L192.3 40.8L192.3 41.6L193.5 42.7L194.0 43.6L195.1 44.4L196.2 44.6L196.8 45.2L197.5 45.6L198.4 46.1L196.9 46.0L196.4 46.7L197.2 47.1L196.6 47.7L196.1 48.6L195.9 47.8L195.7 47.0L195.0 46.3L194.1 45.6L192.9 45.2L192.1 44.7L191.2 44.0L190.5 43.4L190.2 42.3L188.9 41.9L187.9 42.5L186.5 43.2L184.6 42.9L183.1 43.2L183.0 44.5L182.1 45.2L180.8 45.4L180.1 46.3L179.7 47.2L179.5 48.3L178.6 49.2L177.9 50.0L176.6 50.0L175.6 50.0L174.6 50.8L173.8 50.3L172.5 49.5L171.6 49.7L171.2 48.3L170.5 47.8L171.0 46.7L171.2 45.7L171.0 44.8L171.0 43.7L172.0 42.5L173.2 42.7L174.6 42.7L175.7 42.9L176.5 42.8L178.1 42.9L178.6 42.2L178.8 40.1L177.8 39.0L177.0 38.5L175.5 38.1L176.7 37.1L178.4 37.3L178.1 36.2L179.0 36.6L181.3 35.8L181.6 34.9L182.5 34.7L183.3 34.5L184.7 32.6L186.1 32.2L186.9 32.2L187.9 32.0L188.8 31.7L188.5 30.7L188.1 29.0L189.4 28.3L190.6 27.7L190.3 28.6L190.9 29.1L189.7 30.1L189.9 31.1L191.0 31.3L192.0 31.5L193.6 31.6L194.8 31.6L196.4 31.1L197.6 30.8L198.6 31.0L199.7 31.2L201.3 30.4L201.1 29.5L201.6 28.1L202.5 27.7L203.3 28.5L204.1 28.5L204.3 27.7L203.4 26.8L204.6 25.9L205.9 25.8L206.9 25.9L208.0 25.9L209.1 25.3L208.1 24.8L206.3 24.9L204.5 25.3L202.9 25.5L202.3 24.9L201.3 24.6L201.5 23.6L201.1 22.6L202.4 21.3L204.7 20.2L205.3 19.5L203.9 19.0L202.2 19.3L201.2 20.0L199.8 21.5L197.8 22.4L197.1 23.9L197.8 24.7L198.8 25.3L197.9 26.5L196.8 26.7L196.4 28.5L195.9 29.5L194.7 29.4L194.1 30.2L192.9 30.3L192.6 29.3L191.8 28.1L191.0 26.6L190.4 25.9L188.4 27.1L187.0 27.4L185.7 26.8L185.3 25.7L185.0 23.3L185.9 22.6L188.6 21.7L190.5 20.6L192.4 19.1L194.8 17.1L196.4 16.3L199.2 15.0L201.4 14.5L203.0 14.6L204.5 13.7L206.4 13.7L208.2 13.5L211.3 14.3L210.0 14.6L211.1 15.3L212.1 14.9L213.8 15.5L216.5 15.8L220.3 17.0L221.1 17.5L220.0 18.7L218.4 19.0L213.9 18.2L214.8 19.1L214.9 20.7L216.2 21.0L217.0 21.3L216.5 20.3L219.6 20.6L220.4 20.3L219.8 19.5L222.1 18.5L223.0 18.6L223.9 18.9L224.5 18.2L223.7 17.6L223.5 16.3L226.3 16.6L226.8 17.2L225.6 17.4L226.3 18.3L227.9 18.1L230.2 16.9L233.7 16.0L234.7 16.8L235.4 16.4L237.3 16.4L238.8 16.0L239.9 16.6L241.1 15.9L240.0 15.3L243.5 15.3L244.9 15.6L248.5 16.8L249.2 16.3L248.2 15.7L246.9 15.4L246.7 14.0L248.5 12.7L249.2 11.8L252.6 11.9L251.8 13.3L252.8 14.4L252.6 15.8L253.7 16.5L253.2 17.2L251.3 18.7L252.4 18.8L253.9 18.2L255.1 17.2L254.5 16.6L254.9 15.9L253.8 15.8L254.4 14.1L253.1 13.3L254.9 12.5L255.2 11.8L255.3 13.4L256.4 13.6L255.9 12.8L257.6 12.4L259.7 12.3L261.5 12.9L260.6 12.1L260.5 10.9L262.3 10.7L264.7 10.8L266.8 10.6L266.0 10.1L267.2 9.4L268.3 9.4L270.3 8.8L272.9 8.7L275.9 8.3L276.7 8.5L278.9 8.0L280.8 8.0L282.0 7.1L284.4 6.7L286.1 7.0L284.7 7.3L287.0 7.4ZM229.1 45.1L229.6 45.9L230.4 46.2L229.6 46.3L229.4 47.1L228.9 47.7L229.2 49.0L230.1 49.3L230.8 49.8L232.3 50.0L233.8 49.7L233.7 48.7L233.9 47.6L233.1 47.2L232.7 46.4L232.9 45.6L233.9 45.8L234.7 45.5L234.0 44.8L232.9 44.5L232.5 43.5L231.3 43.2L230.9 42.2L230.3 41.6L231.3 41.7L232.2 40.8L233.0 40.9L233.2 39.9L232.0 39.3L231.2 39.0L230.0 39.5L229.1 39.7L227.7 40.5L226.7 41.6L227.6 42.6L228.6 44.6ZM198.3 4.5L201.5 5.3L199.0 5.7L198.5 6.5L197.6 6.7L197.1 7.6L195.9 7.6L193.8 7.0L194.7 6.6L193.2 6.3L191.2 5.4L190.4 4.6L193.2 4.2L195.1 4.6L197.0 4.2L198.3 4.5ZM205.4 3.8L207.4 4.2L205.9 4.7L203.0 4.9L200.1 4.7L198.5 4.4L197.4 3.9L200.5 3.6L201.9 3.8L202.9 3.5L205.4 3.8ZM279.9 5.4L277.8 5.5L275.0 5.2L273.3 4.8L272.5 4.1L271.2 3.9L273.8 3.1L275.9 2.9L277.9 3.4L280.2 4.5L279.9 5.4ZM93.0 4.6L94.2 4.9L92.8 5.2L91.0 6.0L89.2 6.1L87.1 6.0L86.0 5.5L86.9 4.9L85.0 4.9L83.9 4.5L84.0 3.6L85.7 3.2L87.6 2.9L88.9 3.5L90.6 3.7L92.2 3.9L93.0 4.6ZM111.5 0.9L114.2 1.0L116.3 1.2L118.2 1.4L115.7 2.2L113.2 2.4L112.3 2.6L114.5 2.6L112.2 3.3L110.5 3.6L108.8 4.4L106.8 4.6L103.1 4.9L104.5 5.1L103.7 6.1L102.1 6.4L100.2 7.2L102.1 7.4L99.4 8.3L96.8 8.0L93.9 8.1L92.4 8.0L90.5 8.0L92.2 7.2L91.7 6.4L95.0 6.8L93.7 6.1L92.0 5.9L92.8 5.5L94.6 5.3L93.5 4.5L95.8 4.0L98.2 3.7L95.9 3.6L92.4 3.7L90.6 3.3L89.8 2.9L88.6 2.6L89.9 2.0L91.1 2.0L93.0 1.8L94.5 1.4L95.7 1.5L96.8 1.8L97.6 1.2L98.9 1.0L100.7 0.9L103.7 0.9L107.2 0.8L109.3 0.9L111.5 0.9ZM152.9 0.5L159.2 1.3L157.3 1.8L153.5 1.8L148.1 1.9L152.1 2.0L155.2 2.3L157.1 2.0L157.9 2.4L156.8 3.0L159.4 2.6L164.2 2.2L167.2 2.4L163.7 3.6L160.0 4.0L162.3 4.1L161.1 4.9L160.3 5.5L160.3 6.7L161.5 7.4L160.0 7.5L158.3 7.8L160.2 8.3L160.4 9.2L159.3 9.3L160.6 10.3L158.4 10.3L159.6 10.8L157.8 11.3L156.4 11.3L157.7 12.0L155.7 12.0L156.6 12.6L157.9 13.2L158.2 14.1L156.5 14.3L155.7 13.9L154.5 13.3L153.6 14.5L156.3 14.6L157.7 14.7L155.0 15.6L152.3 16.4L149.3 16.8L148.2 16.8L147.2 17.2L145.8 18.3L143.6 19.0L141.6 19.3L140.2 19.6L139.3 20.2L138.8 21.7L137.2 22.5L137.6 23.3L137.1 24.2L136.6 25.2L135.2 25.3L133.7 24.5L131.7 24.4L130.8 23.9L130.1 22.8L128.4 21.5L127.9 20.8L127.7 19.9L126.3 18.9L126.7 18.1L127.0 16.5L128.5 16.1L129.1 14.9L128.0 15.2L126.5 15.5L125.3 15.2L125.6 13.9L126.6 13.9L128.6 14.2L126.9 13.5L126.0 13.2L125.0 13.3L124.2 13.0L125.3 12.1L123.9 10.9L122.7 9.8L121.4 9.4L118.7 8.3L116.6 8.3L113.9 8.3L111.5 8.4L110.3 8.0L108.6 7.4L111.2 7.1L113.2 7.0L109.0 6.7L106.7 6.3L110.6 5.4L114.3 4.9L112.0 4.1L112.8 3.7L116.3 2.9L117.8 2.8L119.7 2.1L122.8 1.9L125.9 1.9L127.0 2.2L129.6 1.6L132.0 2.0L133.4 2.1L135.5 2.5L133.1 1.9L136.6 0.8L140.1 0.9L141.4 0.5L144.9 0.4L152.9 0.5Z" fill="#bdb29c" fill-rule="evenodd" stroke="#a89d86" stroke-width="0.3"/>

diff --git a/image/frontpage.raw.html b/image/frontpage.raw.html
@@ -147,22 +147,22 @@
   </div>
 
   <div class="stats">
-    <div class="stat"><b>48h</b><span>overtime</span></div>
-    <div class="stat"><b>24</b><span>body bags</span></div>
-    <div class="stat"><b>16</b><span>liquor dead</span></div>
-    <div class="stat"><b>720/9</b><span>NZ record</span></div>
-    <div class="stat"><b>10</b><span>Cape dead</span></div>
-    <div class="stat"><b>2h</b><span>power cut</span></div>
+    <div class="stat"><b>48h</b><span>COP31 overtime</span></div>
+    <div class="stat"><b>24</b><span>body bags · Banten</span></div>
+    <div class="stat"><b>16</b><span>dead · Manipur</span></div>
+    <div class="stat"><b>720/9</b><span>India · Wellington</span></div>
+    <div class="stat"><b>10</b><span>dead · Cape Town</span></div>
+    <div class="stat"><b>2h</b><span>power cuts · Iran</span></div>
   </div>
 
   <div class="regions">
-    <div class="r-me">Middle East <span>6</span></div>
-    <div class="r-ap">Asia-Pacific <span>7</span></div>
-    <div class="r-am">Americas <span>7</span></div>
-    <div class="r-af">Africa <span>4</span></div>
-    <div class="r-eu">Europe <span>6</span></div>
-    <div class="r-oc">Oceania <span>1</span></div>
-    <div class="r-wo">World <span>2</span></div>
+    <div class="r-me">Middle East</div>
+    <div class="r-ap">Asia-Pacific</div>
+    <div class="r-am">Americas</div>
+    <div class="r-af">Africa</div>
+    <div class="r-eu">Europe</div>
+    <div class="r-oc">Oceania</div>
+    <div class="r-wo">World</div>
   </div>
 
   <div class="heroes">
@@ -276,14 +276,14 @@
         <span class="n">8</span><span class="rg">Banten · Sat 21</span><span class="st reported">Reported</span><span class="fp">24 bags · ~30 missing</span></div>
       <h3>Toll from Saturday’s blaze rises</h3>
       <p class="line">A Sat 21 fire; this is Sunday’s count.</p>
-      <div class="src">Xinhua · 22 Nov</div>
+      <div class="src">Xinhua · fire Sat 21</div>
     </div>
     <div class="tile ap">
       <div class="scene" style="background:#17242f"><svg viewBox="0 0 300 64" preserveAspectRatio="xMidYMid meet"><g fill="#3a4a5f"><path d="M96 62 V38 h20 v24z"/><rect x="100" y="24" width="12" height="14"/><path d="M130 62 V44 h16 v18z"/><rect x="134" y="34" width="8" height="10"/></g><g fill="#d4342a"><path d="M180 20 l26 44 h-52z"/></g><rect x="177" y="34" width="6" height="16" fill="#fff"/><rect x="177" y="54" width="6" height="6" fill="#fff"/></svg>
         <span class="n">9</span><span class="rg">Manipur · liquor</span><span class="st reported">Reported</span><span class="fp">16 dead · 600 in hospital</span></div>
       <h3>Moonshine toll reaches 16 in Manipur</h3>
       <p class="line">About 600 in hospital; six arrested.</p>
-      <div class="src">Xinhua · 22 Nov</div>
+      <div class="src">Xinhua · fire Sat 21</div>
     </div>
     <div class="tile am">
       <div class="scene" style="background:#1a241d"><svg viewBox="0 0 300 64" preserveAspectRatio="xMidYMid meet"><path d="M48 34 l70 -10 l26 -16 l10 2 l-14 18 l40 -6 l10 6 l-56 14 l-6 18 l-8 2 l2 -18 l-50 6z" fill="#8fb2d8"/><path d="M150 52 h96 v8 h-96z" fill="#3a4a5f"/><g fill="#d4342a"><rect x="196" y="42" width="7" height="10"/><rect x="216" y="42" width="7" height="10"/></g></svg>
@@ -317,8 +317,8 @@
 
   <div class="bottom">
     <div class="mapbox">
-      <div class="h">Where it happened · 32 of 33 stories plotted</div>
-      <div class="legend">Middle East 6 · Asia-Pacific 7 · Americas 7 · Africa 4 · Europe 6 · Oceania 1 · World 2 = 33</div>
+      <div class="h">Where it happened</div>
+      <div class="legend">33 stories · one dot each · dots are places, not numbers</div>
       <svg viewBox="0 0 360 150" preserveAspectRatio="xMidYMid meet">
         <rect width="360" height="150" fill="#fbf9f3"/>
         <path d="__MAP_PATH__" fill="#bdb29c" fill-rule="evenodd" stroke="#a89d86" stroke-width="0.3"/>
